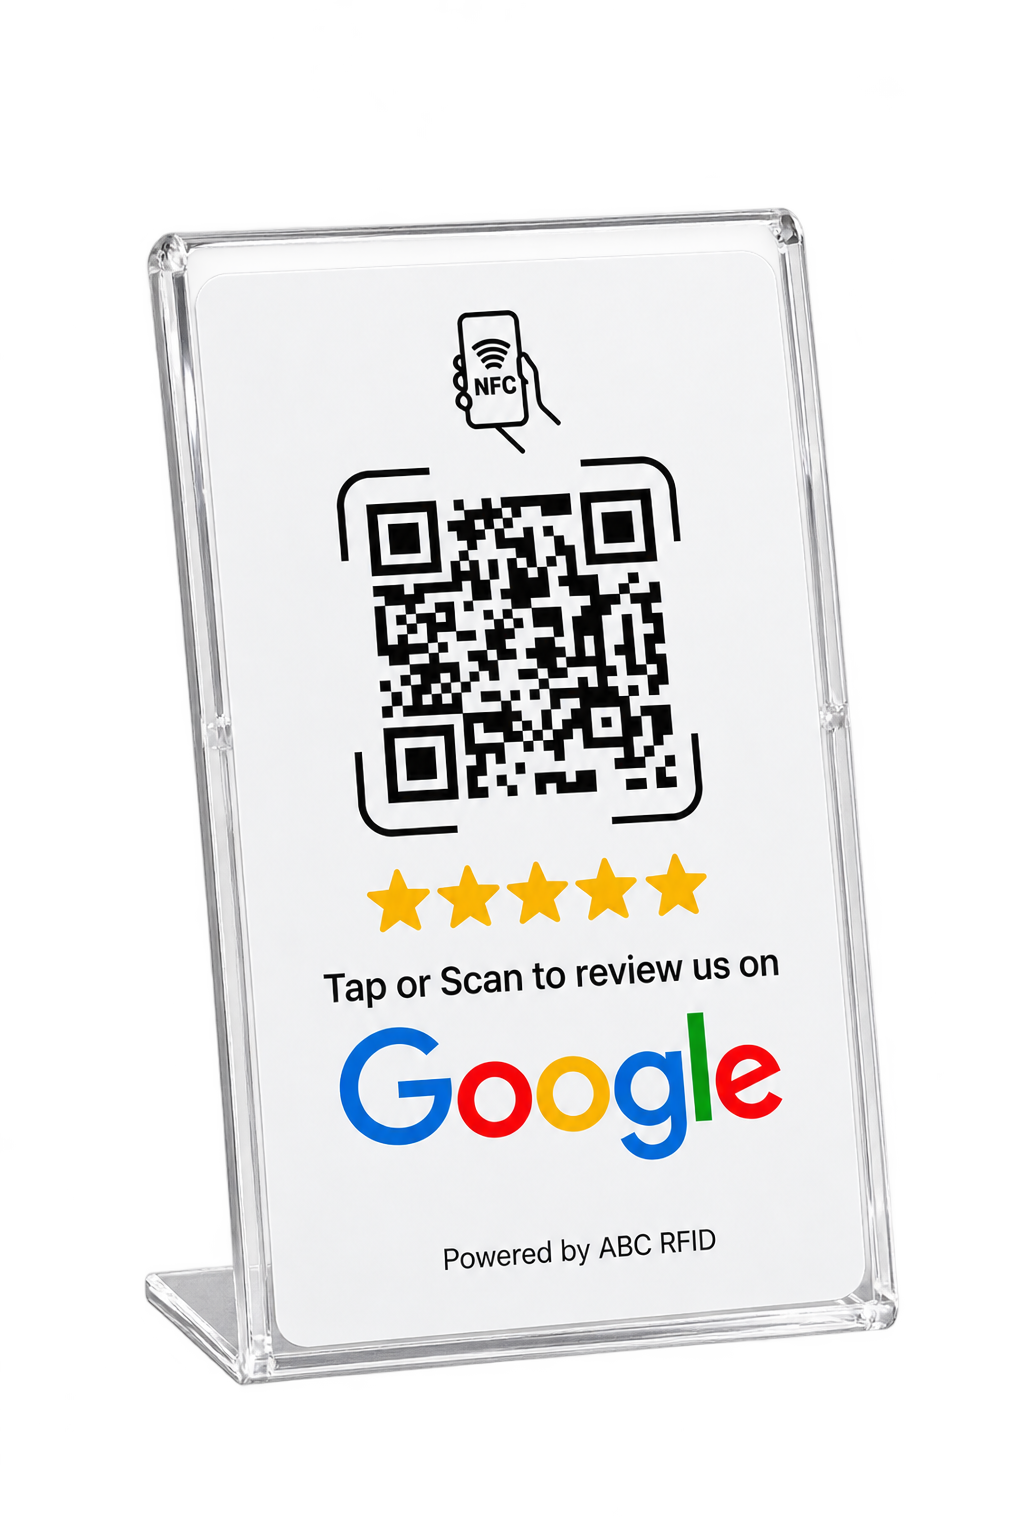
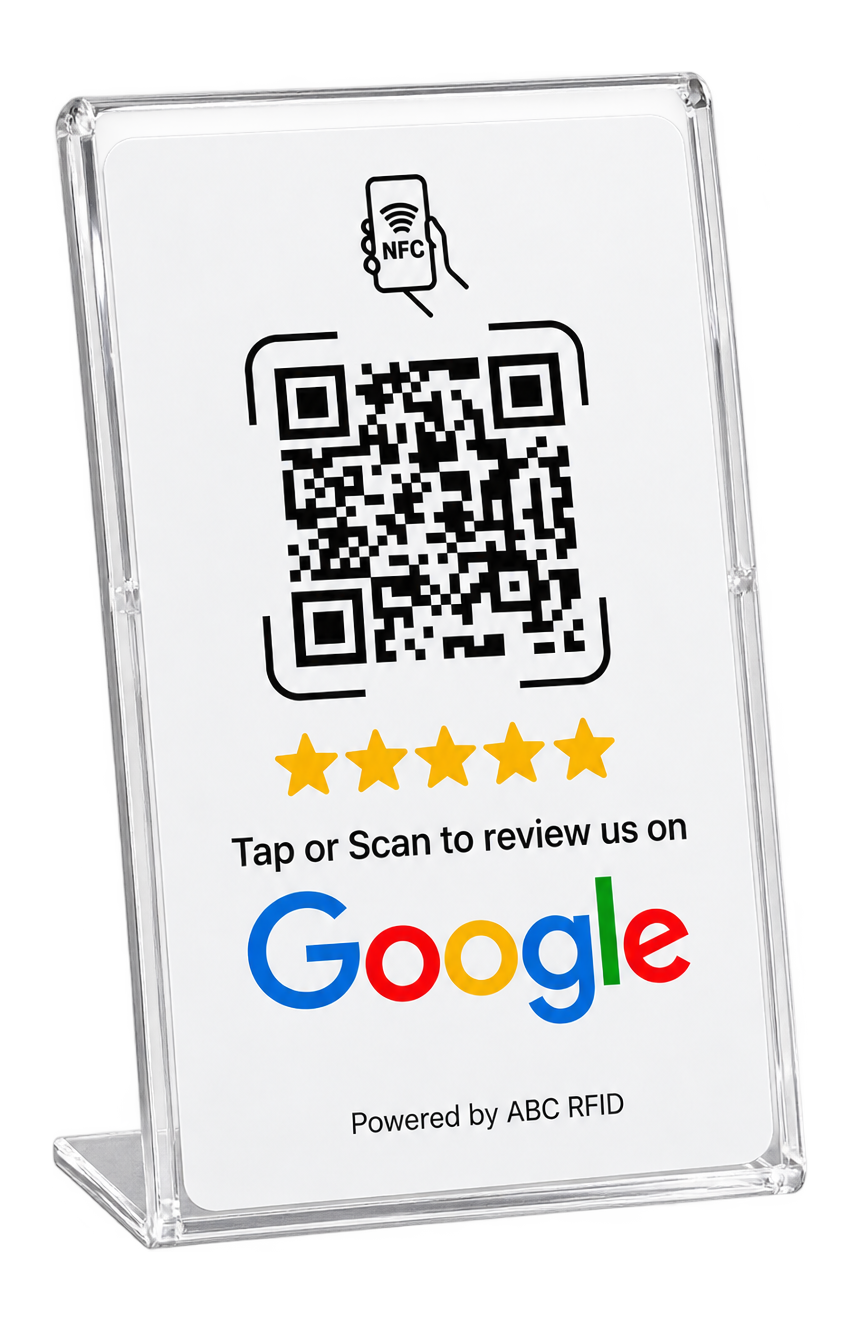
Popup: manja crna i bela kartica sad piksel-tacno iste velicine (opsecene slike), napomena o providnom stalku uz izbor manje velicine

Changed region(s): [[0.0605, 0.031, 0.9372, 0.9607]]

diff --git a/src/lib/proizvod.ts b/src/lib/proizvod.ts
@@ -19,15 +19,20 @@ export function slikaProizvoda(velicina: Velicina, boja: Boja): string {
 }
 
 // CSS aspect-ratio zapis (širina/visina) — različit razmer fotografije za
-// veći (848/1401) i manji (1024/1536) stalak, prosleđuje se Kartica3D-u.
+// veći (848/1401) i manji (0.65) stalak, prosleđuje se Kartica3D-u.
+// kartica_bela.png/kartica_crna.png su 20.09.2026. opsečene na sadržaj i
+// podložene tako da OBE dele TAČNO isti razmer 0.65 (prvobitno 1024×1536 i
+// 1122×1402 — vidljivo različite margine, crna kartica je delovala manje
+// nego bela unutar iste kutije); sad se ne oslanja na "skoro jednako",
+// stvarni fajlovi (860×1323, 782×1203) imaju identičan razmer.
 export function razmerProizvoda(velicina: Velicina): string {
-  return velicina === "manji" ? "1024 / 1536" : "848 / 1401";
+  return velicina === "manji" ? "0.65" : "848 / 1401";
 }
 
 // Isti broj kao string (za obrnut izračun kvadratne širine oko mobilne
 // slike — vidi DodajUKorpuPopup.tsx).
 export function razmerProizvodaBroj(velicina: Velicina): number {
-  return velicina === "manji" ? 1024 / 1536 : 848 / 1401;
+  return velicina === "manji" ? 0.65 : 848 / 1401;
 }
 
 export function nazivProizvoda(velicina: Velicina): string {

diff --git a/src/components/sajt/DodajUKorpuPopup.tsx b/src/components/sajt/DodajUKorpuPopup.tsx
@@ -319,6 +319,20 @@ export function DodajUKorpuPopup({
               </button>
             ))}
           </div>
+          {/* Napomena SAMO kad je izabran manji stalak (20.09.2026.,
+              eksplicitno traženo) — objašnjava da je to ravna kartica sa
+              sopstvenim providnim stalkom, ne "manja verzija" celog
+              stalka; veći stalak je sam po sebi jasan, pa ne treba dodatni
+              tekst. */}
+          {velicina === "manji" && (
+            <p
+              className={`m-0 px-1 font-tekst text-caption ${
+                tamno ? "text-[rgba(191,227,208,0.75)]" : "text-text-muted"
+              }`}
+            >
+              Dolazi kao NFC kartica u sopstvenom providnom stalku, spremna za sto.
+            </p>
+          )}
         </div>
 
         <div className="flex flex-col gap-2">
